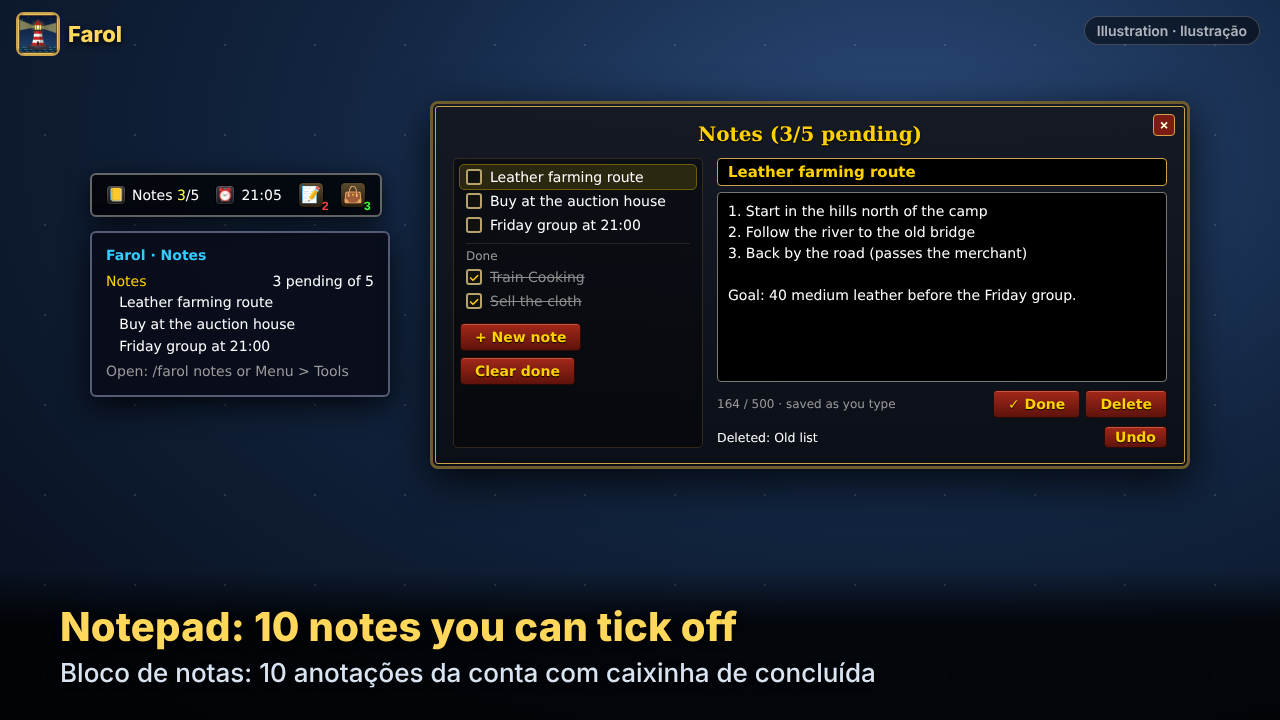
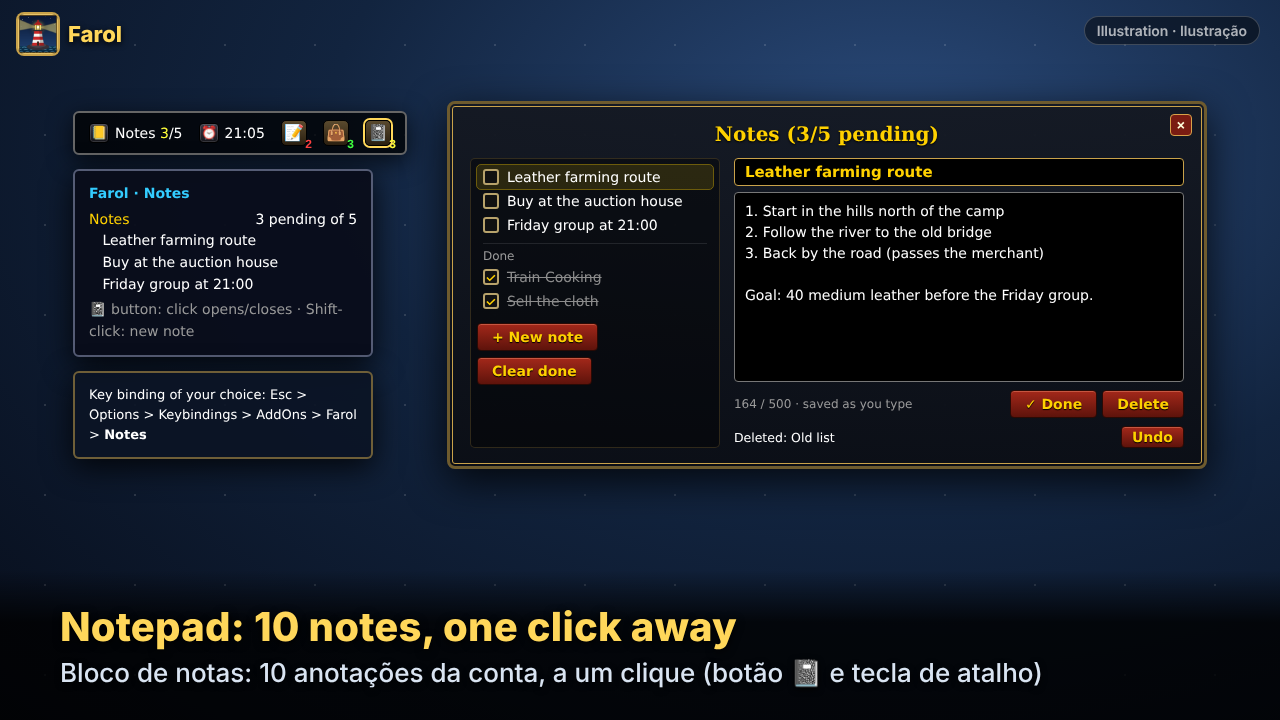
3.25.0: notes button and key binding
Claude-Session: https://claude.ai/code/session_01BGNd8jLBZJw5iNs8DwdX47

Changed region(s): [[0.0312, 0.1222, 0.8438, 0.6417], [0.75, 0.1222, 0.9688, 0.6417], [0.3125, 0.8556, 0.8125, 0.9778]]

diff --git a/assets/curseforge/make_pages.py b/assets/curseforge/make_pages.py
@@ -206,6 +206,7 @@ app = f"""<div class="win" style="width:470px"><div class="x">×</div><div class
 <div class="ck"><span class="box"></span>Hide in dungeons, raids, arenas and battlegrounds</div>
 <div class="ck"><span class="box">✓</span>Show the warning history button 📝</div>
 <div class="ck"><span class="box">✓</span>Show the loot button 👜</div>
+<div class="ck"><span class="box">✓</span>Show the notes button 📓</div>
 <div class="ck"><span class="box"></span>Full tooltip (all information on every item)</div>
 <div style="text-align:right;margin-top:8px"><span class="btn">Restore defaults</span></div></div>"""
 small = hbar(BAR_ITEMS[:4], "font-size:12px;transform:scale(.9)")
@@ -461,10 +462,12 @@ nwin = ('<div class="win" style="width:760px"><div class="x">×</div><div class=
         + '<div style="display:flex;justify-content:space-between;align-items:center;margin-top:8px;font-size:12.5px"><span>Deleted: Old list</span><span class="btn" style="padding:2px 10px">Undo</span></div>'
         + '</div></div></div>')
 NB = hbar([("📒",'Notes <span class="y">3</span>/5'),("⏰",'21:05')], "font-size:14px")
+NB = NB[:-len('</div>')] + '<span class="qb" style="box-shadow:0 0 0 2px #ffd75a">📓<span class="badge" style="color:#ffff3a">3</span></span></div>'
 ntip = ('<div class="tip" style="width:300px"><div style="color:#33ccff;font-weight:bold;margin-bottom:4px">Farol · Notes</div>'
         '<div class="row"><span class="k">Notes</span><span>3 pending of 5</span></div>'
         '<div>&nbsp;&nbsp; Leather farming route</div><div>&nbsp;&nbsp; Buy at the auction house</div><div>&nbsp;&nbsp; Friday group at 21:00</div>'
-        '<div class="dim" style="margin-top:4px">Open: /farol notes or Menu &gt; Tools</div></div>')
+        '<div class="dim" style="margin-top:4px">📓 button: click opens/closes · Shift-click: new note</div></div>'
+        '<div class="tip" style="width:300px;font-size:13px;background:#0b1424e8;border-color:#c9a24a88">Key binding of your choice: Esc &gt; Options &gt; Keybindings &gt; AddOns &gt; Farol &gt; <b>Notes</b></div>')
 page("farol-18-notepad", f'<div style="display:flex;flex-direction:column;gap:14px;align-items:flex-start">{NB}{ntip}</div>{nwin}',
-     "Notepad: 10 notes you can tick off", "Bloco de notas: 10 anotações da conta com caixinha de concluída", NCSS)
+     "Notepad: 10 notes, one click away", "Bloco de notas: 10 anotações da conta, a um clique (botão 📓 e tecla de atalho)", NCSS)
 print("pages ok")

diff --git a/CLAUDE.md b/CLAUDE.md
@@ -189,7 +189,7 @@ Farol/
   Sources.lua       de onde vem o XP e o ouro (opção "sources", desligada; tooltips XP/ouro, resumo, /farol origem)
   Diag.lua          /farol diagnostico: leituras cruas do jogo, último logout e contagem de eventos (só leitura)
   MinimapButton.lua botão próprio no minimapa (sem bibliotecas) + entrada AddonCompartment do .toc (/farol minimapa)
-  Bindings.xml      atalho de teclado oficial (só abre o histórico de avisos)
+  Bindings.xml      atalhos de teclado oficiais (só abrem janelas: histórico de avisos e anotações; nenhuma tecla definida)
   Media/Farol.tga   ícone original (64×64)
 tests/              suíte de testes em Lua 5.1 com simulador da API do WoW
 assets/             ícones, texto do CurseForge, imagens de divulgação (assets/curseforge/ + gerador), vídeo (assets/video/)
@@ -206,7 +206,7 @@ assets/             ícones, texto do CurseForge, imagens de divulgação (asset
   "Ontem" / "08/11"; longo = "domingo, 08/11/2026 às 21:12"; inválido = "--").
 - Cada módulo adiciona seus textos em `ns.STRINGS.pt` / `ns.STRINGS.en` e usa `T("chave")`.
 - **Globais:** só nomes começando com `Farol` (janelas/botões), `FarolDB`, `FarolCharDB`, `SLASH_FAROL1`,
-  `Farol_ToggleWarnHistory`, `Farol_OnAddonCompartmentClick/Enter/Leave` (citadas no `.toc`), `BINDING_*`. Nada de
+  `Farol_ToggleWarnHistory`, `Farol_ToggleNotes` (3.25), `Farol_OnAddonCompartmentClick/Enter/Leave` (citadas no `.toc`), `BINDING_*`. Nada de
   globais genéricos. O `test_globals` lê **todos** os `.lua` (lista `FILES`): arquivo novo entra nela.
 - **Perfis (3.x):** no disco, os campos de cada barra (`ns.BAR_KEYS`: posição, aparência, `items`, `order`…) ficam
   em `FarolDB.profiles.account.bars[N]`; `activeBar` e `dataVersion = 3` ao lado. No código, `db.items`, `db.scale`
@@ -257,7 +257,9 @@ assets/             ícones, texto do CurseForge, imagens de divulgação (asset
   Shift, a opção `tooltipFull` ou o fundo da barra mostram tudo (`TIP_ORDER`). Listas: no máximo `LIST_MAX` (5).
 - **Barra:** cada informação é uma **célula** (FontString) numa grade de **colunas alinhadas à esquerda**. O número
   de colunas é o máximo que cabe em `db.barWidth` (0 = uma linha, 1 = uma coluna, N = pixels escolhidos pela alça).
-  A altura segue as linhas. Botões rápidos (📝 👜) via `ns.quickButtons` + `ns.LayoutQuickButtons()`.
+  A altura segue as linhas. Botões rápidos (📝 👜 e, desde a 3.25, 📓 das anotações) via `ns.quickButtons` +
+  `ns.LayoutQuickButtons()`; cada módulo tem seu `UpdateButton` (chamado por `ApplyAppearance` e `SetColorblind`).
+  O das anotações (`Notes.UpdateButton`, `db.notesButton`, desligado) também é atualizado a cada mudança das notas.
 - **Janelas:** todas chamam `ns.MakeToplevel(frame)` (abrem na frente; clique traz para a frente) e entram em
   `UISpecialFrames` (Esc fecha).
 - **Menu de opções (3.4):** abas `Profiles.TABS` = Barra / Avisos / Ferramentas / Geral (`BuildControls` no Core, um

diff --git a/README.pt-BR.md b/README.pt-BR.md
@@ -185,7 +185,7 @@ Abra **Aparência...** no menu de opções (ou `/farol aparencia`):
   largura. As informações se reorganizam em **colunas alinhadas à esquerda** que caibam: larga = uma linha, estreita =
   uma informação por linha, e no meio = 2, 3, 4… colunas. A altura se ajusta sozinha. Atalhos: **Uma linha** / **Uma
   coluna**. Travar a barra (`/farol lock`) esconde a alça.
-- **Mostrar borda**, **mostrar ícones na barra** (um por item) e **mostrar o botão do histórico de avisos**, **mostrar o botão de saques** e **tooltip completo** (todas as informações em qualquer item).
+- **Mostrar borda**, **mostrar ícones na barra** (um por item) e **mostrar o botão do histórico de avisos**, **mostrar o botão de saques**, **mostrar o botão das anotações** (desligado) e **tooltip completo** (todas as informações em qualquer item).
 - **Esconder em combate** (volta quando a luta acaba) e **esconder em masmorras, raides, arenas e campos de batalha**.
   Os alarmes e os avisos continuam funcionando com a barra escondida.
 - **Restaurar padrão** volta tudo ao normal.
@@ -419,7 +419,12 @@ digitar. Abra com `/farol notas` ou **Anotações...** em Menu > Ferramentas.
 - **Apagar** e **Limpar concluídas** perguntam antes (clique de novo para confirmar) e mostram **Desfazer** (só nesta
   sessão).
 - Item opcional na barra **Anotações** (desligado): `Notas 2/5` = 2 pendentes de 5; passe o mouse para ver as pendentes.
-- Comandos: `/farol notas nova Título`, `/farol notas lista`, `/farol notas desfazer`.
+- **Botão das anotações** ao lado da barra (desde a 3.25, desligado; Menu > Geral > **Aparência...** > "Mostrar botão
+  das anotações", ou `/farol notas botao on`): o número mostra as pendentes; clique abre/fecha a janela,
+  **Shift + clique** abre com uma anotação nova e passar o mouse lista as pendentes.
+- **Tecla de atalho** à sua escolha: Esc → Opções → Teclas de atalho → AddOns → Farol → "Anotações" (o Farol não define
+  nenhuma tecla).
+- Comandos: `/farol notas nova Título`, `/farol notas lista`, `/farol notas desfazer`, `/farol notas botao on|off`.
 - As anotações ficam só no seu computador; nada é enviado. O texto salvo é conferido ao carregar (tamanhos máximos,
   sem códigos do chat).
 

diff --git a/README.md b/README.md
@@ -183,7 +183,7 @@ Open **Appearance...** in the options menu (or `/farol appearance`):
   Items rearrange into **left-aligned columns** that fit: wide = one line, narrow = one item per line, anything in
   between = 2, 3, 4… columns. The height adjusts automatically. Shortcuts: **One line** / **One column**. Locking the
   bar (`/farol lock`) hides the grip.
-- **Show border** on/off, **show icons on the bar** (one per item) and **show the warning history button**, **show the loot button** and **full tooltip** (all information on every item).
+- **Show border** on/off, **show icons on the bar** (one per item) and **show the warning history button**, **show the loot button**, **show the notes button** (off by default) and **full tooltip** (all information on every item).
 - **Hide in combat** (comes back when the fight ends) and **hide in dungeons, raids, arenas and battlegrounds**.
   Alarms and warnings keep working while the bar is hidden.
 - **Restore defaults** puts everything back.
@@ -412,7 +412,11 @@ with `/farol notes` or **Notes...** in Menu > Tools.
 - On the right, the title and the text of the selected note; **✓ Done / Reopen** and **Delete**.
 - **Delete** and **Clear done** ask first (click again to confirm) and show an **Undo** line (this session only).
 - Optional bar item **Notes** (off by default): `Notes 2/5` = 2 pending of 5; hover it for the pending ones.
-- Commands: `/farol notes new Title`, `/farol notes list`, `/farol notes undo`.
+- **Notes button** next to the bar (since 3.25, off by default; Menu > General > **Appearance...** > "Show the notes
+  button", or `/farol notes button on`): the number shows the pending notes; click opens/closes the window,
+  **Shift-click** opens it with a new note, hovering lists the pending ones.
+- **Key binding** of your choice: Esc → Options → Keybindings → AddOns → Farol → "Notes" (Farol sets no key).
+- Commands: `/farol notes new Title`, `/farol notes list`, `/farol notes undo`, `/farol notes button on|off`.
 - The notes stay on your computer; nothing is sent. Saved text is checked on load (size limits, no chat codes).
 
 ## Session summary

diff --git a/assets/curseforge-description.md b/assets/curseforge-description.md
@@ -43,6 +43,7 @@ FPS · Latency · Memory · Coordinates · Zone · Speed · **Hearthstone: where
 - Optional **break** and **drink water** reminders (off by default): you choose how often (15–240 min) and whether they can show during fights, raids and dungeons.
 - Long warnings are never cut: they wrap onto up to 3 lines, hovering shows the whole text, and the warning window can be made wider with the ◢ grip.
 - **History of the last 10 warnings**: button next to the bar (with unread counter), key binding or `/farol history`.
+- **Notes one click away** (off by default): a notes button next to the bar with the number of pending notes (Shift-click = new note) and a key binding of your choice.
 
 ### Session summary
 - `/farol summary` shows what you did this session **in your own chat**: gold (and per hour), XP and levels, reputation (standing before → after), loot (rares, epics, legendaries) and warnings.
@@ -106,6 +107,7 @@ FPS · Latência · Memória · Coordenadas · Zona · Velocidade · **Pedra de 
 - Lembretes opcionais de **pausa** e de **beber água** (desligados por padrão): você escolhe de quanto em quanto tempo (15–240 min) e se podem aparecer em lutas, raides e masmorras.
 - Avisos longos nunca ficam cortados: quebram em até 3 linhas, passar o mouse mostra o texto inteiro e a janela de avisos pode ficar mais larga com a alça ◢.
 - **Histórico dos 10 últimos avisos**: botão ao lado da barra (com contador de novos), atalho de teclado ou `/farol historico`.
+- **Anotações a um clique** (desligado por padrão): botão das anotações ao lado da barra com o número de pendentes (Shift + clique = anotação nova) e tecla de atalho à sua escolha.
 
 ### Resumo da sessão
 - `/farol resumo` mostra **no seu chat** o que você fez na sessão: ouro (e por hora), XP e níveis, reputação (nível antes → depois), saques (raros, épicos, lendários) e avisos.

diff --git a/CHANGELOG.md b/CHANGELOG.md
@@ -2,6 +2,15 @@
 
 All notable changes to Farol. Versions follow the `## Version:` line of the `.toc` files.
 
+## 3.25.0 — Notes button and key binding
+- New **notes button** next to bar 1, after the warning history and loot buttons (off by default; Menu > General >
+  Appearance... > "Show the notes button", `/farol notes button on|off` or `/farol appearance notesbutton`). Its number
+  is the count of pending notes (palette "attention" color, hidden when none). Click opens/closes the Notes window,
+  Shift-click opens it with a new note, hovering lists the pending notes.
+- New **key binding** "Notes" (Esc > Options > Keybindings > AddOns > Farol): opens/closes the window. Farol sets no
+  key; you choose it.
+- Saved: `notesButton` (account, checked on load). Nothing is sent. Images 07 and 18 updated. 754 tests (2 passes).
+
 ## 3.24.1 — Notes: the description box takes clicks again
 - Fix: in game, the description box of a note only took clicks on a thin strip the height of its text (empty = one
   line) and could stay under its background, so only the title could be typed. Now a click anywhere on the dark area
